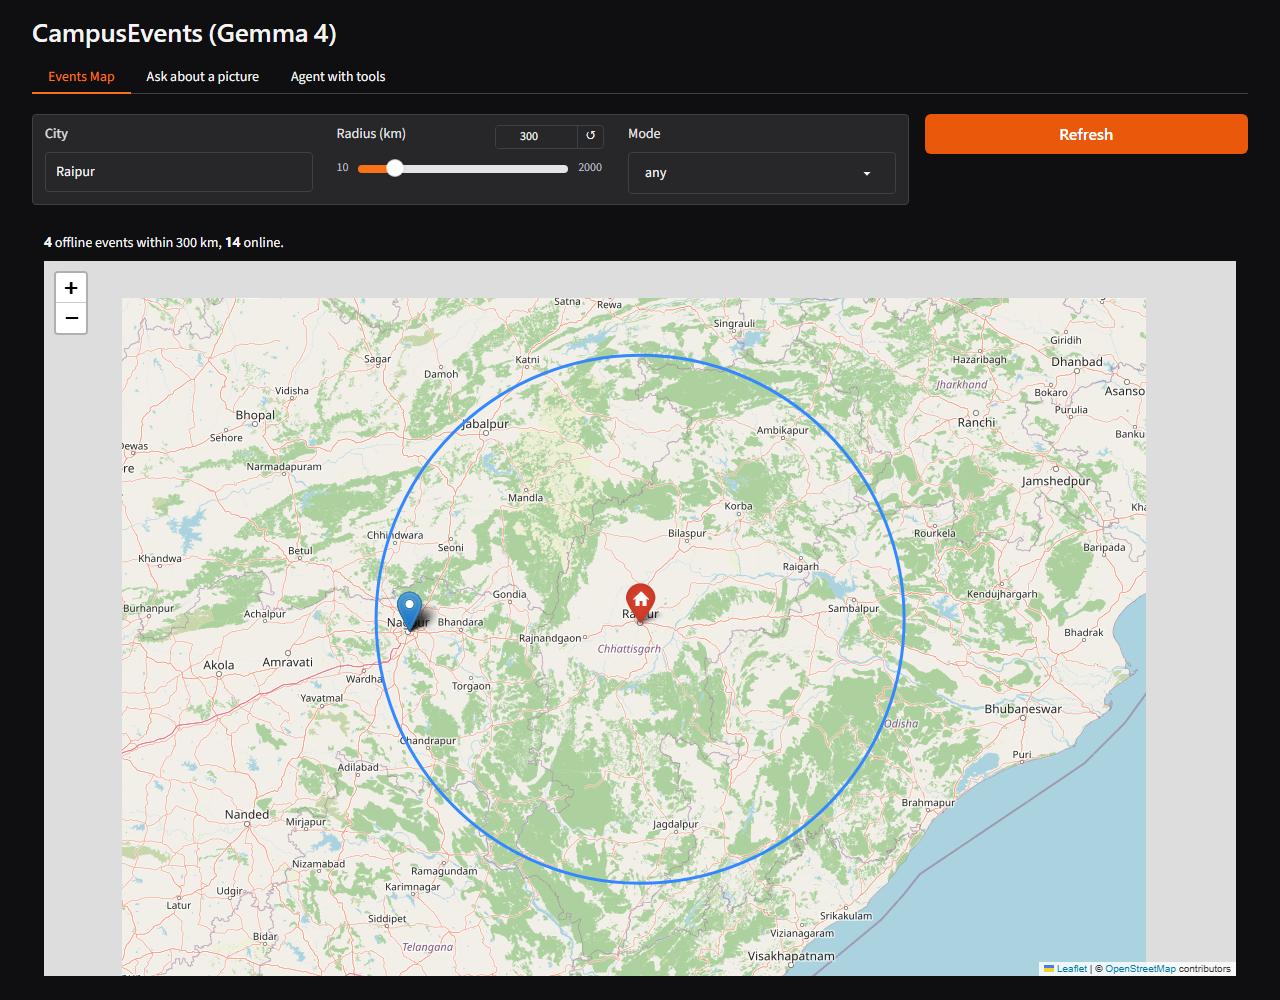
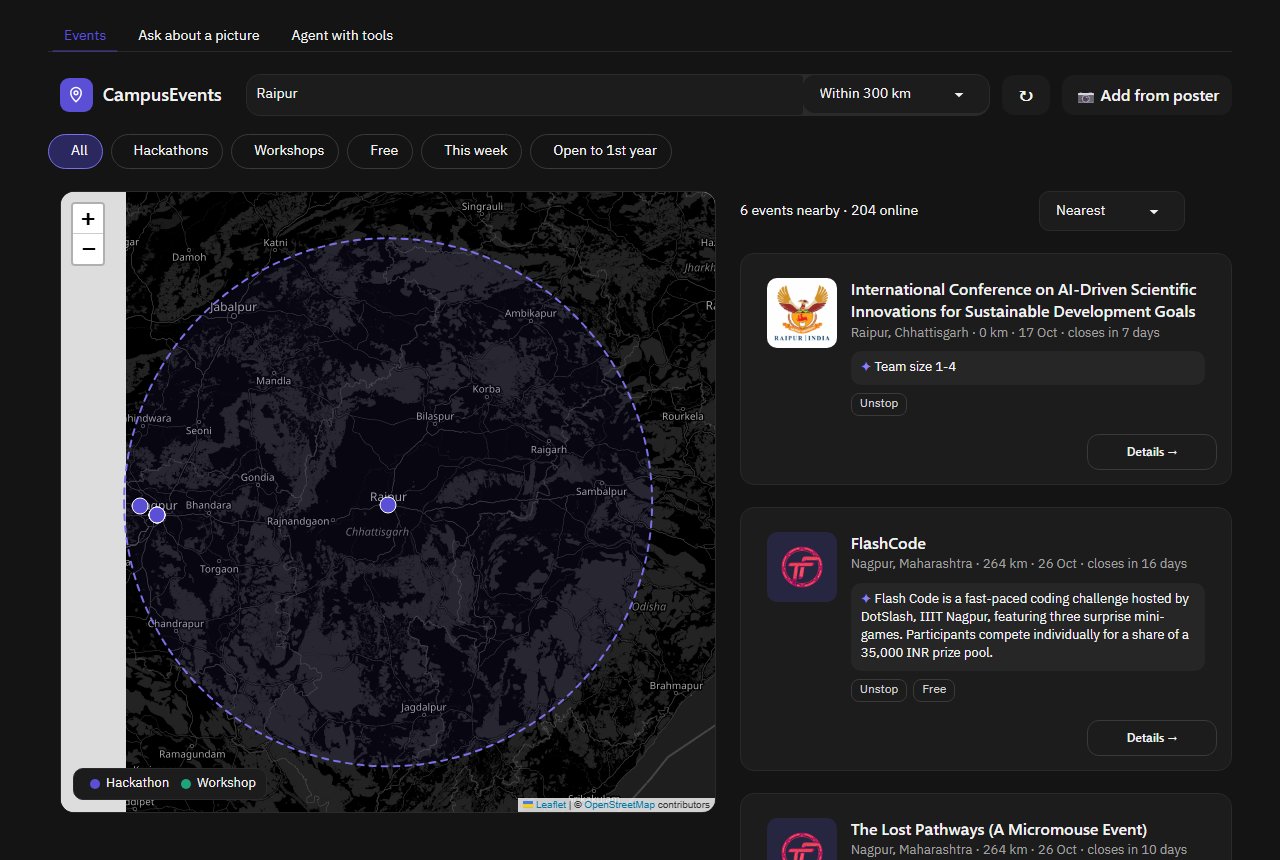
README screenshot of the new UI; page opens with the map already drawn; polish chips and buttons

diff --git a/app_template/app.py b/app_template/app.py
@@ -378,7 +378,12 @@ footer { display: none !important; }
 .ce-summary span { color: #8b80f0; }
 .ce-tags { display: flex; gap: 6px; flex-wrap: wrap; }
 .ce-tag { border: 1px solid #3a3a3a; border-radius: 8px; padding: 2px 8px; font-size: 12px; color: #d0d0d0; }
-.ce-details-btn { align-self: flex-end; max-width: 130px; border-radius: 12px !important; }
+.ce-details-btn { align-self: flex-end; max-width: 130px; border-radius: 12px !important;
+                  border: 1px solid #3a3a3a !important; padding: 8px 16px !important; font-weight: 600; }
+.ce-details-btn:hover { background: #262626 !important; }
+/* Gradio wraps inputs in a grey "form" box; remove it around the chips and the sort menu */
+.form:has(#ce-chips), .form:has(#ce-sort), .form:has(#ce-count) {
+  background: transparent !important; border: none !important; box-shadow: none !important; }
 
 /* details page */
 #ce-back { max-width: 180px; border-radius: 999px; }
@@ -425,8 +430,11 @@ footer { display: none !important; }
 
 # ---------- layout ----------
 
+# The first map and list are built once at startup, so the page never opens empty.
+FIRST_MAP, FIRST_FOUND, FIRST_COUNT = show_events(DEFAULT_CITY, DEFAULT_RADIUS, "All", "Nearest")
+
 with gr.Blocks(title=TITLE) as demo:
-    found_state = gr.State([])       # the events currently shown
+    found_state = gr.State(FIRST_FOUND)   # the events currently shown
     selected_state = gr.State("")    # id of the last opened event
 
     with gr.Tab("Events"):
@@ -455,10 +463,10 @@ with gr.Blocks(title=TITLE) as demo:
 
             with gr.Row(elem_id="ce-body", equal_height=False):
                 with gr.Column(scale=58):
-                    map_box = gr.HTML()
+                    map_box = gr.HTML(FIRST_MAP)
                 with gr.Column(scale=42, elem_id="ce-list-col"):
                     with gr.Row(elem_id="ce-list-head"):
-                        count = gr.Markdown(elem_id="ce-count")
+                        count = gr.Markdown(FIRST_COUNT, elem_id="ce-count")
                         sort = gr.Dropdown(["Nearest", "Closing soon"], value="Nearest",
                                            show_label=False, elem_id="ce-sort", min_width=150)
 
@@ -484,7 +492,7 @@ with gr.Blocks(title=TITLE) as demo:
         # ----- wiring -----
         list_inputs = [city, radius, chip, sort]
         list_outputs = [map_box, found_state, count]
-        for trigger in (city.submit, radius.change, chip.change, sort.change, demo.load):
+        for trigger in (city.submit, radius.change, chip.change, sort.change):
             trigger(show_events, list_inputs, list_outputs)
         refresh_btn.click(refresh, list_inputs, list_outputs)
         back_btn.click(back_to_events, None, [main_view, details_view])
